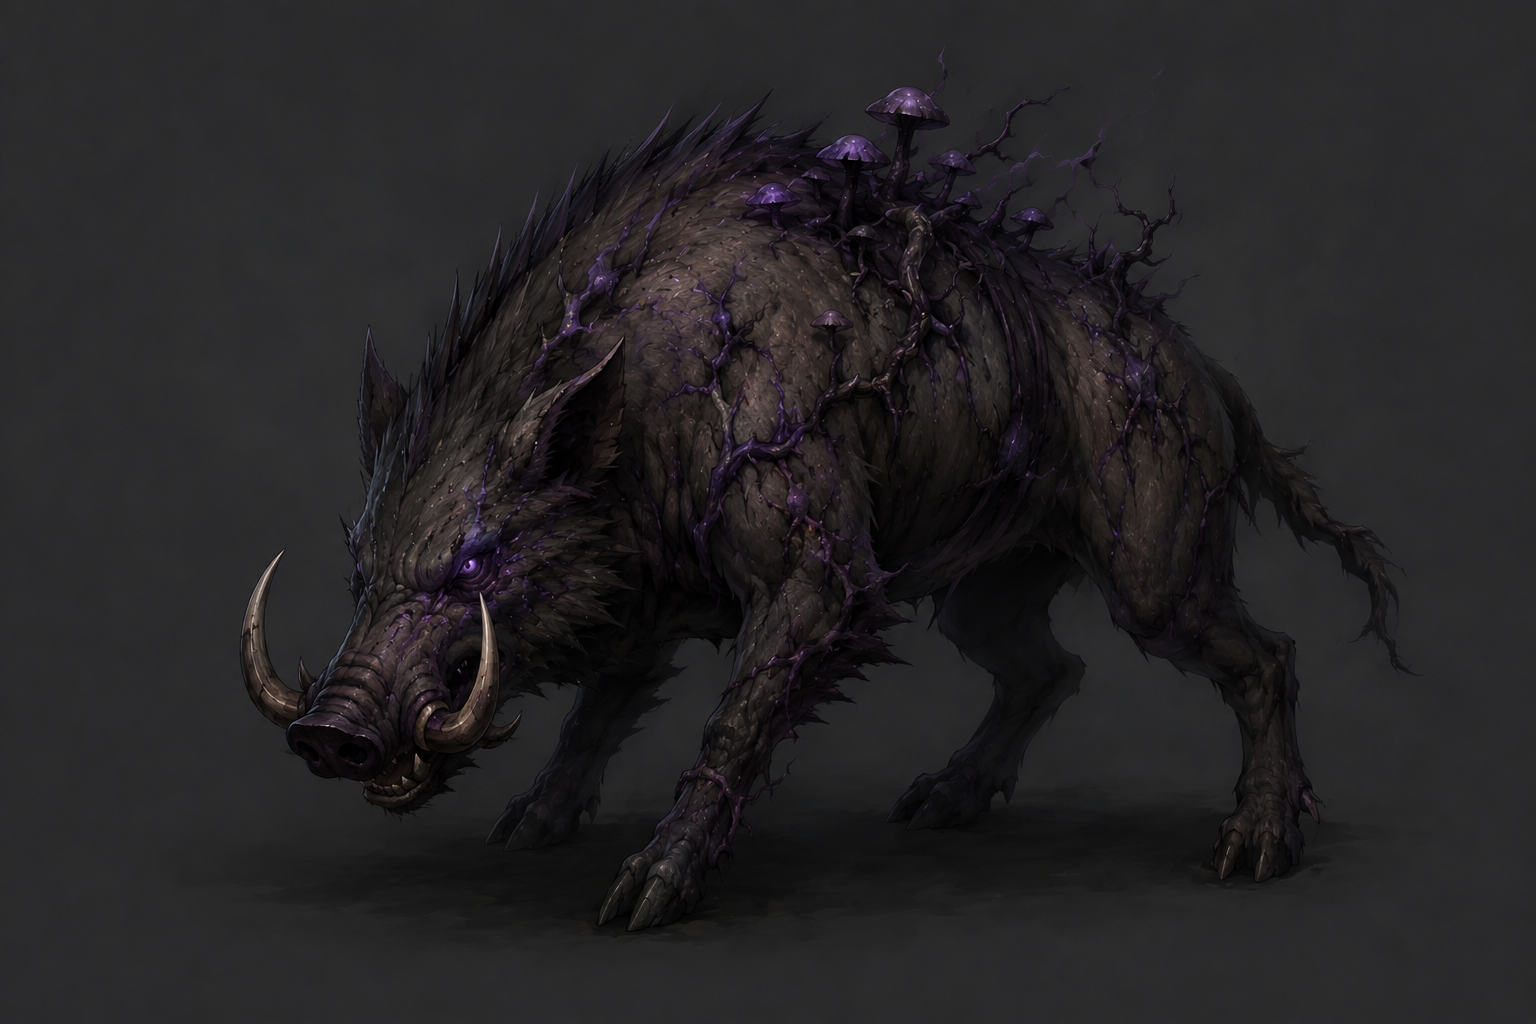
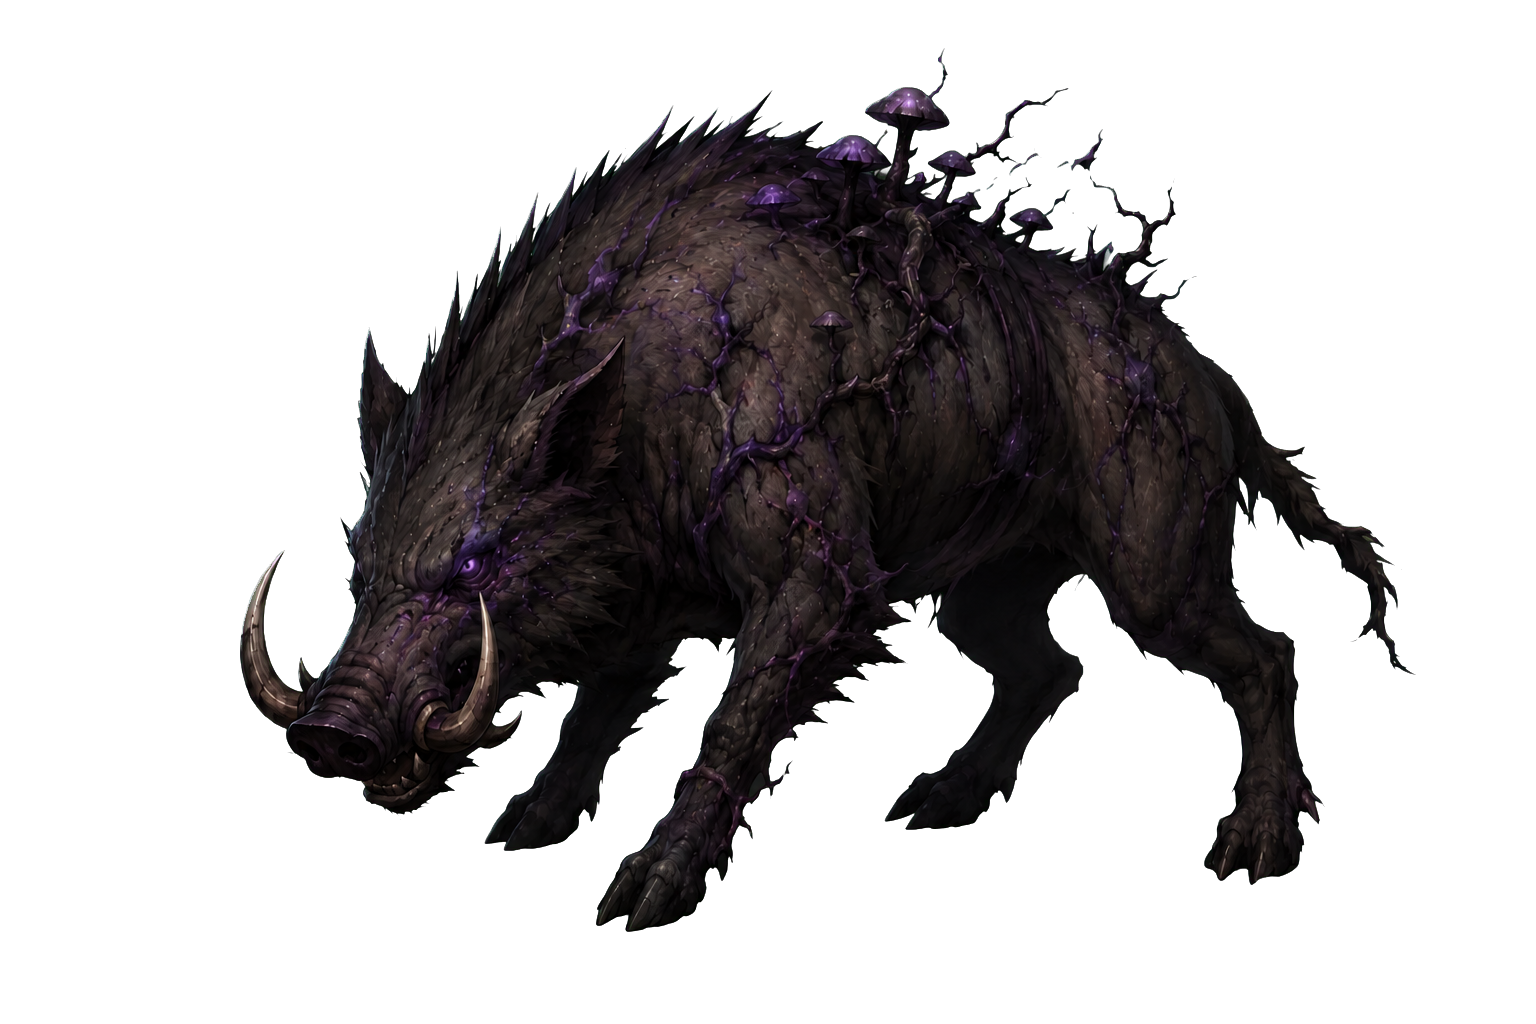
fix: remove entrance monster backgrounds

diff --git a/index.html b/index.html
@@ -39,7 +39,7 @@
         <p class="hint">可隨時從設定中變更</p>
         <button class="primary-button" type="submit"><span>開始旅程</span><b>→</b></button>
       </form>
-      <p class="version">VER. 0.4.4　·　離線也會持續累積</p>
+      <p class="version">VER. 0.4.5　·　離線也會持續累積</p>
     </section>
 
     <section id="menu-screen" class="screen menu-screen hidden" aria-labelledby="menu-title">
@@ -202,7 +202,7 @@
   <script src="black-forest-corruption-policy.js?v=20260806-black-forest-core-v1"></script>
   <script src="blackstone-stronghold-policy.js?v=20260806-black-forest-core-v1"></script>
   <script src="black-forest-depths-policy.js?v=20260806-black-forest-core-v1"></script>
-  <script src="black-forest-entrance-policy.js?v=20260807-shadow-spider-v4"></script>
+  <script src="black-forest-entrance-policy.js?v=20260807-transparent-monsters-v5"></script>
   <script src="chapter-two-map-policy.js?v=20260806-black-forest-core-v2"></script>
   <script src="wolf-den-policy.js?v=20260728-wolf-passives-v1"></script>
   <script src="boar-woods-policy.js?v=20260802-thick-hide-v2"></script>

diff --git a/tests/black-forest-entrance-policy.test.js b/tests/black-forest-entrance-policy.test.js
@@ -1,4 +1,6 @@
 const assert = require('node:assert/strict');
+const fs = require('node:fs');
+const path = require('node:path');
 const policy = require('../black-forest-entrance-policy.js');
 
 assert.equal(policy.MAP.id, 'black-forest-entrance');
@@ -23,5 +25,11 @@ assert.ok(policy.MONSTERS.filter((monster) => !['black-forest-wolf', 'corrupted-
 assert.ok(policy.MONSTERS.every((monster) => monster.stats === null && monster.dropTableId === null
   && monster.aiProfileId === null && monster.skillIds.length === 0 && monster.implemented === false));
 assert.equal(policy.getMonster('unknown'), null);
+
+['black-forest-wolf.png', 'corrupted-boar.png', 'shadow-spider.png'].forEach((filename) => {
+  const png = fs.readFileSync(path.join(__dirname, '..', 'assets', filename));
+  assert.equal(png.subarray(1, 4).toString(), 'PNG', `${filename} is a PNG asset`);
+  assert.equal(png[25], 6, `${filename} uses RGBA color type with an alpha channel`);
+});
 
 console.log('black-forest-entrance-policy: assertions passed');

diff --git a/tests/chapter-two-map-integration.test.js b/tests/chapter-two-map-integration.test.js
@@ -12,7 +12,7 @@ const blackForestRenderer = rendererStart >= 0 && rendererEnd > rendererStart ? 
 assert.match(index, /chapter-two-map-policy\.js[\s\S]*script\.js/, 'chapter-two data loads before the game');
 assert.match(index, /black-forest-corruption-policy\.js[\s\S]*blackstone-stronghold-policy\.js[\s\S]*black-forest-depths-policy\.js[\s\S]*chapter-two-map-policy\.js/);
 assert.match(index, /black-forest-entrance-policy\.js[\s\S]*chapter-two-map-policy\.js/);
-assert.match(index, /VER\. 0\.4\.4/);
+assert.match(index, /VER\. 0\.4\.5/);
 assert.match(index, /VER\. \d+\.\d+\.\d+/, 'the game exposes a semantic version');
 assert.match(script, /\.\.\.ChapterTwoMapPolicy\.MAPS/, 'chapter-two maps join the shared progression data');
 assert.match(script, /blackForestCorruption: BlackForestCorruptionPolicy\.normalizeState\(saved\.blackForestCorruption\)/);

diff --git a/tests/black-ore-drop-integration.test.js b/tests/black-ore-drop-integration.test.js
@@ -12,6 +12,6 @@ assert.match(script, /VillageUpgradePolicy\.grantMapDrops\(progress, currentMap\
 assert.doesNotMatch(crafting, /blackOre: Object\.freeze/, 'black ore has one canonical material definition in the drop policy');
 assert.match(index, /chapter-one-material-drop-policy\.js\?v=20260806-black-ore-drops-v2/, 'the material policy cache key changes');
 assert.match(index, /script\.js\?v=20260806-black-forest-core-v127/, 'the integration cache key changes');
-assert.match(index, /VER\. 0\.4\.4/, 'the game version includes the shadow spider asset');
+assert.match(index, /VER\. 0\.4\.5/, 'the game version includes transparent entrance monster assets');
 
 console.log('black-ore-drop-integration: assertions passed');
